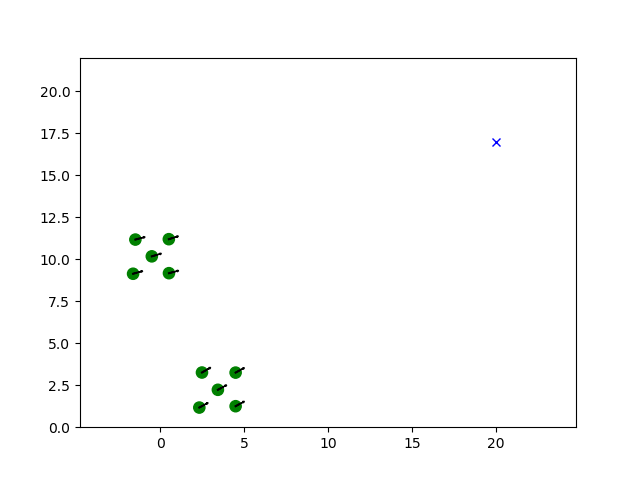
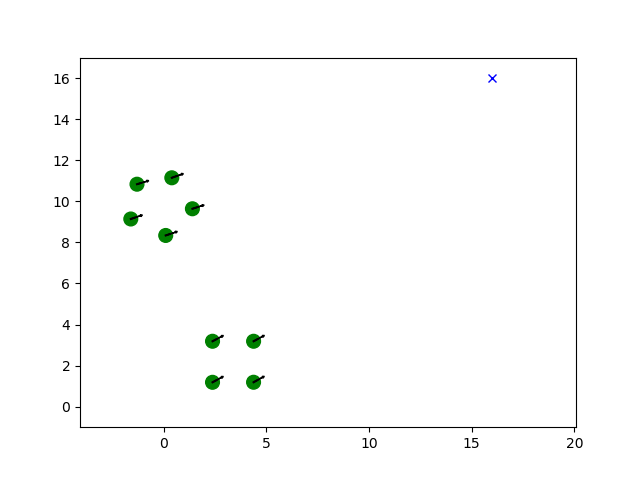
modified after presentation

diff --git a/experiment.tex b/experiment.tex
@@ -1,17 +1,17 @@
 \chapter{Experiments and Results}
-In this section, computer simulation results are presented in a two-dimensional space. The scoring system for formation coordination is validated in Section 4.1. The path planning algorithm is tested via three scenarios in Section 4.2, where the first shows how the team avoids obstacles by spitting and merging, the second shows how the team compress the formation to pass through a narrow area, and the last validates how the team find a solution when encountering a blind alley. The parameters used in our simulation is shown as the below table:
+In this section, computer simulation results are presented in a two-dimensional space. The scoring system for formation coordination is validated in Section 4.1. The path planning algorithm is tested via three scenarios in Section 4.2, where the first one shows how the team avoids obstacles by spitting and merging, the second one shows how the team compresses the formation to pass through a narrow passage, and the last one validates how the team finds a solution when encountering a blocked corner. The parameters used in our simulation are shown in Table \ref{table:parameter}:
 
 
 \begin{center}
 \captionof{table}{Simulation parameters}
-\label{table:combination}
+\label{table:parameter}
 \scalebox{0.9}{ %表格縮放
 \begin{tabular}{ll} 
     \Xhline{1.3pt}
     \textbf{parameter} & \textbf{value} \\ 
     \Xhline{1.3pt}
         UAV radius ($r$) & 0.4 $m$\\
-        safe distance ($d_{safe}$) & 0.6 $m$\\
+        safe distance ($d_{safe}$) & 0.8 $m$\\
         minimum velocity ($v_{min}$) & 0 $m/s$\\
         maximum velocity ($v_{max}$) & 15 $m/s$\\
         maximum acceleration ($a_{max}$) & 0.3 $m/s^{2}$\\
@@ -28,9 +28,7 @@ In this section, computer simulation results are presented in a two-dimensional 
 
 \section{Validation of The Scoring System}
 
-To fully verify the formation coordination's performance, we use an obstacle-free environment to observe how the UAVs move based on the scoring system. In Figure 4.1, 10 random-positioned UAVs is seen in the bottom-left corner, each of which has a sensing radius $d_{r}$ of 5 meters. After taking off (subgraph a), UAVs instantly detect the neighbors within $d_{r}$ and plan the best trajectories considered the minimum cost in the scoring system. At $t= 5 sec$ (subgraph b), UAVs move closer among neighbors to form compactly. At $t= 10 sec$, final formation is reconfigured (subgraph c). 
-Moreover, the final formation differs each time during multiple simulations since our goal is to safely and flexibly show the UAV's behavior. Furthermore, the algorithm shows scalability with the number of UAVs in the above two simulations. Because $N$ does not affect the visual scope, each UAV only has to consider the neighbors as its reference. 
-
+To fully verify the formation coordination's performance, we use an obstacle-free environment to observe how the UAVs move based on the scoring system. In Figure \ref{reconfiguring}, 9 random-positioned UAVs are seen in the bottom-left corner, each of which has a sensing radius $d_{r}$ of 5 meters. After taking off, as in Figure \ref{reconfiguring_a}, UAVs instantly detect the neighbors within $d_{r}$ and plan the best trajectories considered the minimum cost in the scoring system. At $t= 5 sec$ , as in Figure \ref{reconfiguring_b}, UAVs move closer among neighbors to form compactly. At $t= 10 sec$, the final formation is reconfigured as in Figure \ref{reconfiguring_c}. Moreover, the final formation differs each time during multiple simulations since our goal is to safely and flexibly show the UAV's behavior. The algorithm shows scalability with the number of UAVs in the simulation. Because $N$ does not affect the visual scope, each UAV only has to consider the neighbors as its reference. 
 
 \begin{figure}[htbp]
      \centering
@@ -38,28 +36,28 @@ Moreover, the final formation differs each time during multiple simulations sinc
          \centering
          \includegraphics[width=\textwidth]{figures/reconfigure_1.png}
          \caption{random positioned UAV}
-         \label{before merging}
+         \label{reconfiguring_a}
      \end{subfigure}
      \hfill
      \begin{subfigure}[b]{0.3\textwidth}
          \centering
          \includegraphics[width=\textwidth]{figures/reconfigure_2.png}
          \caption{formation coordination}
-         \label{ew}
+         \label{reconfiguring_b}
      \end{subfigure}
      \hfill
      \begin{subfigure}[b]{0.3\textwidth}
          \centering
          \includegraphics[width=\textwidth]{figures/reconfigure_3.png}
          \caption{final formation}
-         \label{qw}
+         \label{reconfiguring_c}
      \end{subfigure}
         \caption{Reconfiguring a compact formation}
-        \label{fig}
+        \label{reconfiguring}
 \end{figure}
 
 
-In the second simulation (Figure 4.2), we separate 10 UAVs into two groups and observe the behavior between them while flying toward the same goal point. At the beginning (subgraph a), two groups of 5 UAVs are positioned separately. At $t=5$, several UAV's sensors in both groups detect the position of the other group, which increase the number of neighbors. Therefore, the two groups merge into a team and form a new formation at $t=15$. 
+In the second simulation shown in Figure \ref{fig:merging}, we separate 9 UAVs into two groups and observe the behavior between them while flying toward the same goal point. At the beginning. as in Figure \ref{fig:merging_a}, two groups are initially positioned at separate locations. At $t=5$, as in Figure \ref{fig:merging_b}, several UAV's sensors in both groups detect the positions of UAVs in the other group, which they increase the number of neighbors. Therefore, the two groups merge to form a new formation into a large team at $t=17$, as in Figure \ref{fig:merging_c} . 
 
 \begin{figure}[htbp] 
      \centering
@@ -67,63 +65,84 @@ In the second simulation (Figure 4.2), we separate 10 UAVs into two groups and o
          \centering
          \includegraphics[width=\textwidth]{figures/merge_1.png}
          \caption{before merging}
-         \label{fig:y equals x}
+         \label{fig:merging_a}
      \end{subfigure}
      \hfill
      \begin{subfigure}[b]{0.3\textwidth}
          \centering
          \includegraphics[width=\textwidth]{figures/merge_2.png}
          \caption{formation coordination}
-         \label{fig:three sin x}
+         \label{fig:merging_b}
      \end{subfigure}
      \hfill
      \begin{subfigure}[b]{0.3\textwidth}
          \centering
          \includegraphics[width=\textwidth]{figures/merge_3.png}
          \caption{after merging}
-         \label{fig:five over x}
+         \label{fig:merging_c}
      \end{subfigure}
         \caption{Formation merging of two groups}
-        \label{fig:three graphs}
+        \label{fig:merging}
+\end{figure}
+
+We quantify the above two formation results in the line graph as \ref{fig:comparison}. We evaluate the compact formation performance by calculating the average distance among all UAVs in each time slice, and the distance between every 2 UAVs are calculated from the center of circle regardless of robot size and safe distance. That is, the shorter the average distance, the more compactly our formation performs. We than simulate a leader-follower based approach where 9 UAVs are set in a 3x3 square formation as our optimal baseline. It can be seen in the graph that the two simulations end up converging to a formation with an average distance around 2.4 to 2.5 (m), and the leader-follower approach maintains its average distance at around 2.2 (m).
+
+\begin{figure}[H]
+    \centering
+    \includegraphics[scale=1]{figures/average_distance_comparison.png}
+    \caption{Compactness comparison}
+    \label{fig:comparison}
 \end{figure}
 
 \section{Validation of Comprehensive Performance}
 \subsection{Obstacle avoidance}
 We set up an environment with multiple obstacles dispersed randomly with a radius from 0.2 (m) to 1.5 (m) in the flight space. The goal point is set at (24, 24), and a formation flight for a team is considered to start from the left-down corner. The team consists of six UAVs, which the initial positions are set to (1, 5), (3, 5), (5, 5), (3, 3), (5, 3), (5, 1) respectively, and their predefined trajectories are straight lines toward the goal point.
 
-The result is shown in Figure 4.2, where colored-dashed lines denote the trajectories corresponding to each UAV. The group separates in the beginning to avoid the small obstacle placed in (9, 9), and they then merge into a group after passing it. Before reaching the goal point, the split again to dodge the bigger obstacle successfully.
+The result is shown in Figure \ref{fig:trajectory}, where colored-dashed lines denote the trajectories corresponding to each UAV. The group separates in the beginning to avoid the small obstacle placed in (9, 9), and they then merge into a group after passing it. Before reaching the goal point, the split again to dodge a bigger obstacle successfully.
 
 \begin{figure}[H]
     \centering
     \includegraphics[scale=0.7]{figures/exp1-3.png}
     \caption{Overall trajectories for obstacles avoidance}
-    \label{fig:fig_label}
+    \label{fig:trajectory}
 \end{figure}
 
-\subsection{Passing through a narrow area}
-To test the capability of formation compression, we set up a narrow area for the UAV team to pass through. In the simulation, UAVs should switch the state $flying$ to state $waiting$ before passing through the narrow trail. The result is shown in Figure 4.3, where a team of 8 UAVs start from the left and the goal point is set on the right. In Figure 4.4, we use the color for UAVs to identify the states while passing through the trail, where the green UAVs represent the ones in a $flying$ state and the black ones are for the $waiting$ state. It is evident that both sides of the UAV predict the inter-vehicle may occur before entering, and therefore they wait for the former teammates.
+\subsection{Passing through a narrow passage}
+To test the capability of formation compression, we set up a narrow passage for the UAV team to pass through. In the simulation, UAVs should switch the state $flying$ to state $waiting$ before passing through the narrow passage. The result is shown in Figure \ref{fig:narrow}, where a team of 8 UAVs start from the left and the goal point is set on the right. In Figure \ref{fig:narrow}, we use the color for UAVs to identify the states while passing through the passage, where the green UAVs represent the ones in a $flying$ state and the black ones are for the $waiting$ state. It is evident that both sides of the UAVs predict the inter-vehicle collision may occur before entering, and therefore they wait for the other teammates to pass first.
 
 \begin{figure}[H]
     \centering
     \includegraphics[scale=1]{figures/trail_overall.png}
-    \caption{Overall trajectories in a narrow trail}
-    \label{fig:fig_label}
+    \caption{Overall trajectories in a narrow passage}
+    \label{fig:narrow}
 \end{figure}
 \begin{figure}[H]
     \centering
     \includegraphics[scale=1]{figures/trail_enter.png}
-    \caption{waiting state validation}
-    \label{fig:fig_label}
+    \caption{Waiting state validation}
+    \label{fig:wait}
 \end{figure}
 
 \subsection{Maze-like environment}
-More complex obstacles are placed on testing comprehensive functionality. Due to the limited sensor, UAVs cannot predict the obstacles that might block the direction in advance. Our algorithm requires neither leader nor fixed formation so that the team can easily fly in the opposite direction, and find another solution. 
+More complex obstacles are placed on testing comprehensive functionality. Due to the limited sensor, UAVs cannot predict the obstacles that might block the direction far away in advance. Our algorithm requires neither leader nor fixed formation so that the team can easily fly in the opposite direction, and find another solution.
 
-Figure 4.5 shows that the 6 UAVs are blocked in the beginning after they move for a short distance. Nevertheless, the pioneers invoke the state $searching$ when there is no available path. On the other hand, the UAVs behind switch the state $flying$ to $waiting$ and wait for their teammates. To prevent deadlock, We preset the constant $clock$ to 2 seconds. That is, every UAV will start to navigate new paths after the time-out. Finally, it can be seen that the team successfully find another route and fly toward the goal point.
+Figure \ref{fig:maze} shows that the 6 UAVs are blocked in the beginning after they move for a short distance. Nevertheless, the pioneers invoke the state $searching$ when there is no available path. On the other hand, the UAVs behind switch the state $flying$ to $waiting$ and wait for their teammates. To prevent deadlock, we preset a time-out variable $clock$. $clock$ is randomly assigned from 2 to 3 seconds for dealing with the synchronize problem. That is, every UAV will start to navigate new paths after the time-out. Finally, it can be seen that the team successfully find another route and fly toward the goal point.
+
+Figure \ref{fig:analysis} shows the analysis of UAV's performance in Figure \ref{fig:maze} from $N = 1$ to $15$, where $N=1$ represents a single UAV which does not require formation coordination. The green line denotes the UAV's average distance, and the red line denotes the total spent time. Since we define $v_{max} = 1m/s$ in the simulation, the
+average waiting time when UAVs are being stuck can be analyzed from the difference between both lines. It can be seen that the average distance does not largely affect by the number of UAVs, which shows the stability of our formation coordination algorithm. On the other hand, the total time spent depends on $N$ due to the obstacle that blocks the direction. In the area where UAVs try to find a way out, each UAV switch the state between $waiting$ and $searching$ to prevent a deadlock, In conclusion, it is similar to a stack(i.e., last-in-first-out structure), and the total time is a linear growth depends on $N$.
+
 
 \begin{figure}[H]
     \centering
     \includegraphics[scale=1]{figures/comprehensive_simulation_2.png}
-    \caption{\label{tab:table-name} UAVs fly in a maze-like environment}
-    \label{fig:fig_label}
+    \caption{Overall trajectories in a maze-like environment}
+    \label{fig:maze}
 \end{figure}
+
+\begin{figure}[H]
+    \centering
+    \includegraphics[scale=0.3]{figures/analysis.png}
+    \caption{Line chart of the average distance and the total time spent}
+    \label{fig:analysis}
+\end{figure}
+

diff --git a/introduction.tex b/introduction.tex
@@ -1,23 +1,25 @@
 \chapter{Introduction}
 
-
 There are many Unmanned Aerial Vehicle (UAV) applications in military use such as rescue, combat, exploration, surveillance, reconnaissance, etc. In such tasks, UAVs are often required to navigate in a team (i.e., swarm). The significant advantages that multiple vehicles provide over a single one include sharing information, reducing cost, multi-functional cooperation, as well as configuring formation.
 
-The purpose of constructing a formation in a team is to maintain the relative position of a set of vehicles so that we can prevent an inter-vehicle collision on a battlefield or maximize the group sensing area in military surveillance. In recent years, the communication network in multiple vehicle control strategies can be seen as two main categories: centralized and distributed approach. The former requires a leader or a central system to collect global information before planning a formation, while the latter allows each UAV to make its own decision based on local information. In general, the centralized approach provides a relatively more intuitive and easier way to implement in real-world scenarios, but it could become unstable when the central system of the team breaks down. For example, if a leader UAV is attacked and hurt by enemies, the communication between its followers and itself can be blocked, and the team may need to select another leader promptly to maintain its formation and mission operations.
+The purpose of constructing a formation in a team is to maintain the relative position of a set of vehicles so that we can prevent an inter-vehicle collision on a battlefield or maximize the group sensing area in military surveillance. In recent years, the communication network in multiple vehicle control strategies can be seen as two main categories: centralized and distributed approach. The former requires a leader or a central system to collect global information before planning a formation, while the latter allows each UAV to make its own decision based on local information. In general, the centralized approach provides a relatively more intuitive and easier way to implement in real-world scenarios, but it could become unstable when the central system breaks down. For example, if a UAV leader is attacked and hurt by enemies, the communication between its followers and itself can be blocked, and the team may need to promptly select another leader to maintain its formation and mission operations.
 
-On the other hand, despite the distributed multi-UAV approach is more stable and robust in task operations under hostile environment, a few common problems are challenging. Firstly, a consensus protocol among UAVs for internal communication is required since the path planning algorithm is conducted by each UAV dynamically and separately. Secondly, the configuration formation of a group can be more difficult to control and maintain in complex situations such as an environment with potential moving threats, a high density of unknown obstacles, or a narrow passage to reach the goal. Lastly, in the battle, it is sometimes necessary to reconfigure the formation whenever a drone strike occurs or to merge several allies into a bigger team while conducting more complex millitary operations. 
+On the other hand, despite the distributed multi-UAV approach is more stable and robust in task operations under a hostile environment, a few common problems are challenging:
+A consensus protocol among UAVs for internal communication is required since the path planning algorithm is conducted by each UAV dynamically and separately.
+The configuration formation can be more difficult to control and maintain in complex situations such as an environment with potential moving threats, a high density of unknown obstacles, or a narrow passage to reach the goal.
+In the battle, it is sometimes necessary to reconfigure the formation whenever a drone strike occurs or merge several allies into a bigger team while conducting more complex military operations. 
 
-In order to minimize the computing cost and maximize the scalability for solving the above problems, we give up maintaining a specific configuration formation during the mission. Instead, we propose a more flexible configuration formation strategy (i.e., no fixed formations are negotiated beforehand) that requires only some notion of "compactness" of the configuration. In other word, our multi-UAV team aims to achieve the goals as follows:
+In order to minimize the computing cost and maximize the scalability for solving the above problems, we give up maintaining a specific configuration formation during the mission. Instead, we propose a more flexible configuration formation strategy (i.e., no fixed formations are negotiated beforehand) that requires only some notion of "compactness" of the configuration. In other words, our multi-UAV team aims at achieving the goals as follows:
 \begin{enumerate}
 \item Constructing a compact formation by consensus protocols among UAVs
 \item Planning a dynamic path in a complex environment
-\item Forming reconfiguration flexibly while team members change at certain situations
+\item Forming reconfiguration flexibly while team members change their behaviors at certain situations
 \end{enumerate}
 
-Similar to a flock of birds or a school of fish heading toward the destination \citep{hubbard2004model}, each UAV flies in a direction depending on others' directions or behaviors. However, they tend to move together as a whole to protect their companions, meanwhile avoiding crashing into each other without a specific formation in order to maintain the flexibility and certain degree of autonomy. In our problem domain, we define the flexible formation as a set of random-positioned UAVs that fly compactly as a team and keep their inter-safety distance. The reason we form a compact formation is that some localization tasks require multiple sensors with closer relative positions. For example, more agents can increase the accuracy of detecting obstacles from sensor noise and widen the cone of observation \citep{anderson2008uav}. In other words, the purpose is to form more UAVs in a specific range of area.
+Similar to a flock of birds or a school of fish heading toward the destination \citep{hubbard2004model}, each UAV flies in a direction depending on others' directions or behaviors. However, they tend to move together as a whole to protect their companions, meanwhile avoiding crashing into each other without a specific formation in order to maintain flexibility and a certain degree of autonomy. In our problem domain, we define the flexible formation as a set of random-positioned UAVs that fly compactly as a team and keep their inter-safety distance. The reason we form a compact formation is that some localization tasks require multiple sensors with closer relative positions. For example, more agents can increase the accuracy of detecting obstacles from sensor noise and widen the cone of observation \citep{anderson2008uav}. In other words, the purpose is to form more UAVs in a specific range of area.
 
-A scoring system is used to evaluate the cost of the paths predicted by each UAV, and it then selects the minimum-cost path as the final decision. There is a tradeoff in the scoring system that is the goal cost and the formation cost. The former prompts the cost for a UAV to fly toward the destination, and the latter motivates it to stay closer to other teammates. Besides, we let the balance weight between the goal cost and the formation cost depends on the sensing radius and the safety distance of each UAV. Namely, a UAV will find the compact formation more critical when its sensing area is smaller, thus enhancing the density of the UAV around the area.
+A scoring system is used to evaluate the cost of the paths predicted by each UAV, and it then selects the minimum-cost path as the final decision. A trade-off in the scoring system is the weight between the speed cost and the formation cost. The former accelerates the UAVs that far behind the team, and the latter motivates it to stay closer to other teammates. Besides, we let the balance weight between the speed cost and the formation cost depend on the distance of the nearest neighbor. Namely, a UAV will find the compact formation more critical when moving away from the team, thus enhancing the UAV density around the area.
 
-To deal with collision avoidance in different situations, we can switch the path planning algorithm among three states: flying, navigating, and waiting. Flying state is used in most scenarios, where a UAV can easily find a minimum cost among its predicted path. However, if every predicted path is blocked by obstacles, the UAV will automatically switch the algorithm to navigating state and clockwise rotate its direction in order to find another feasible path until the problem is solved. Finally, the waiting state is designed for resolving an possibility of inter-vehicle collision. While reconfiguring the formation before or after passing by obstacles, the selected path may collide with other teammates. In this case, the UAV should stop and plan its path in a busy-waiting status until the other teammates move ahead and the possibility of collision can be avoided.
+To deal with collision avoidance in different situations, we can switch the path planning algorithm among three states: flying, navigating, and waiting. Flying state is used in most scenarios, where a UAV can easily find a minimum cost among its predicted path. However, if obstacles block every predicted path, the UAV will automatically switch the algorithm to navigating state and clockwise rotate its direction to find another feasible path until the problem is solved. Finally, the waiting state is designed for resolving the possibility of inter-vehicle collision. While reconfiguring the formation before or after passing by obstacles, the selected path may collide with other teammates. In this case, the UAV should stop and plan its path in a busy-waiting status until the other teammates move ahead, and the possibility of collision can be avoided.
 
-The rest of the paper is organized as follows. In section 3.1, we use the dynamic windows approach \citep{580977} to dynamically plan paths for multiple UAVs under several constraints. In section 3.2, we introduce the scoring system for configuring a compact formation. In section 3.3, we summarize the distributed configuration formation control algorithm. Finally, the experimental results and future work are presented in section 4 and 5.
+The rest of the paper is organized as follows. In section 3.1, we use the dynamic windows approach \citep{580977} to plan paths for multiple UAVs under several constraints dynamically. In section 3.2, we introduce the scoring system for configuring a compact formation. In section 3.3, we summarize the distributed configuration formation control algorithm. Finally, the experimental results and future work are presented in section 4 and 5.

diff --git a/methodology.tex b/methodology.tex
@@ -23,6 +23,7 @@ for all $i\in$\{1, 2, ..., $N$\}, where $(x_{i}(t_{n})$, $y_{i}(t_{n}))$ is the 
 \begin{aligned}
 & 0\leq v_{i}(t)\leq v_{\max}\\
 & -\omega_{\max}\leq\omega_{i}(t)\leq\omega_{\max}
+\label{eqn:bound}
 \end{aligned}
 \end{equation}
 
@@ -35,7 +36,7 @@ On a battlefield of high uncertainty, We use the dynamic windows approach for ea
 \end{aligned}
 \end{equation}
 
-The above predicted possible trajectories is depended on the inputs ${v}$ and ${\omega}$ controlled by time windows, and the range of ${v}$ and ${\omega}$ can be adjusted more tightly from equation 3.3 as follows:
+The above predicted possible trajectories is depended on the inputs ${v}$ and ${\omega}$ controlled by time windows, and the range of ${v}$ and ${\omega}$ can be adjusted more tightly from equation \ref{eqn:bound} as follows:
 
 \begin{equation}
 \begin{aligned}
@@ -95,14 +96,14 @@ Lastly, the value of the formation cost function is shown as:
 
 
 \section{Distributed Path Planning Algorithm}
-Our proposed algorithm is illustrated in Algorithm 1. Firstly, each UAV predicts trajectories base on the time window, rejecting the ones which may collide into obstacles or teammates. In this step, we can assure that obstacles and inter-vehicle collision will not occur at any time. However, we should identify the difference between the two circumstances by using a flag, which may affect the UAV's behavior at the final of the algorithm. Secondly, the UAV finds the minimum-cost trajectory by using the scoring system. Lastly, UAV decides its behavior among the three states: flying, waiting, and searching.
+Our proposed algorithm is illustrated in Algorithm \ref{alg:tra_planning}. Firstly, each UAV predicts trajectories base on the time window, rejecting the ones which may collide into obstacles or teammates. In this step, we can assure that obstacles and inter-vehicle collision will not occur at any time. However, we should identify the difference between the two circumstances by using a flag, which may affect the UAV's behavior at the final of the algorithm. Secondly, the UAV finds the minimum-cost trajectory by using the scoring system. Lastly, UAV decides its behavior among the three states: flying, waiting, and navigating.
 
 \begin{algorithm}[htbp] 
-\caption{trajectory planning}
+\caption{\label{alg:tra_planning}trajectory planning}
 \begin{algorithmic}[1]
-\State $cost_{min}$ = $\infty$
-\State$traj*$ = [ ]
+\State $cost_{min}$ = $\infty$, $traj*$ = [ ]
 \State $interCollision$ = $false$
+\State Calculate dynamic windows
 \For{$v$ in time window}  
     \For{$\omega$ in time window}
         \State predict a possible trajectory $traj$
@@ -126,41 +127,58 @@ Our proposed algorithm is illustrated in Algorithm 1. Firstly, each UAV predicts
         \State \Return $state$ = $waiting$
     \EndIf
 \EndIf
-\State \Return $state$ = $searching$
+\State \Return $state$ = $navigating$
+
 \end{algorithmic}
 \end{algorithm}
 
-\begin{tikzpicture}
-\node[shape=circle, align=center, draw=black, minimum size=2cm] (wa) at (-3.5, 0) {waiting};
-\node[shape=circle, align=center, draw=black, minimum size=2cm] (fl) at (0,5) {flying};
-\node[shape=circle, align=center, draw=black, minimum size=2cm] (se) at (3.5, 0) {searching};
+\begin{figure}[H]
+    \centering
+    \includegraphics[scale=1]{figures/states.png}
+    \caption{The relationship between each states}
+    \label{fig:states}
+\end{figure}
 
-\path[thick,->] (fl) edge node[left] {inter-vehicle collision} (wa);
-\path[thick,->] (fl) edge node[right] {obstacle collision} (se);
-\path[thick,->] (wa) edge node[below] {time-out} (se);
-
-\end{tikzpicture}
-
-Most of the time, the state Flying is kept.
-Once the set of trajectory nodes are calculated and returned from the algorithm, the UAV follows the nodes and simultaneously predicted a new trajectory. The loop will be continued until another state is switched or the goal point is reached. When there are no available trajectories, and the value of the flag is also equal to True, it can be known that the path is blocked by its teammates instead of obstacles. In this case, the state will be automatically switched to Waiting, where UAVs are required to stop and re-plan the path. Waiting is often seen when avoiding obstacles and formation merging, significantly when the orientation changes quickly. Thus, the later UAVs should give in until the former UAVs pass. However, a deadlock may occur when most UAVs congest in an environment such as a blind alley. To solve such a problem, a time constant Clock is used to prevent a UAV wait overtime. If Clock
-exceeds Wait, the state Searching will be invoked.
+Most of the time, UAVs maintain the state $flying$. Once the set of trajectory nodes are calculated and returned from the algorithm, the UAV follows the nodes and simultaneously predicted a new trajectory. The loop will be continued until another state is switched or the goal point is reached. If all of the predicted trajectories are blocked by the teammates, the state will be automatically switched to $waiting$. State $waiting$ refers to a UAV should stop and re-plan another path, and it is often seen when avoiding obstacles or formation merging, significantly when the orientation changes quickly. Thus, the later UAVs should give up the paths until the former UAVs pass. However, a deadlock may occur when most UAVs congest in an environment such as a blind alley. To solve such a problem, we set a constant $clock$ to prevent a UAV from waiting for overtime. If $clock$ exceeds the waiting time, the state $navigating$ will also be invoked.
 \[
     waiting()= 
 \begin{cases}
-    \text{stop and re-plan},& \text{if } clock<t_{wait}\\
-    \text{switch to } searching, & \text{otherwise}
+    \text{stop},& \text{if } clock<t_{wait}\\
+    \text{switch to } navigating, & \text{otherwise}
 \end{cases}
 \]
 
-$searching$ is also be used when a UAV has no trajectories found due to the obstacle collision. The UAV stops and rotates its orientation to plan other possible trajectories. In this paper, the orientation is clockwise rotated with a predefined angular velocity $\omega_{search}$. The equation is shown as follows:
+The UAV stops and rotates its orientation to plan other possible trajectories in state $navigating$. The state $navigating$ is also used in other cases such as multiple or irregular-shaped obstacles. In this paper, we clockwise rotate the orientation with a predefined angular velocity $\omega_{nav}$, the calculation is as follows:
 
 \begin{equation}
 \begin{aligned}
-& \theta_{i}(t) = \theta_{i}(t_{0}) + t \cdot \omega_{search}
+& v_{i} = 0 \\
+& \theta_{i}(t) = \theta_{i}(t_{0}) + t \cdot \omega_{nav}
 \end{aligned}
 \end{equation}
 
+However, the group might end up converging in a straight-line formation after avoiding obstacles in a few certain circumstance, because the collinear of ($x_{i}, y_{i}$), $PG_{i}$ ,and the $End$ causes a fixed orientation for each UAV. To solve the convergence problem, if an UAV's neighbors only appear at the front and the back during the state $flying$ (figure \ref{fig:convergence}), an orientation changing function, as in equation \ref{eqn:convergence}, will allow it to randomly turn left or right for an orientation $\omega_{turn}$ . Once one or more UAVs move to different positions, the formation will be reconfigured.
+
+\begin{figure}[H]
+    \centering
+    \includegraphics[scale=0.8]{figures/line-convergence.png}
+    \caption{straight-line formation convergence problem}
+    \label{fig:convergence}
+\end{figure}
+
+\begin{equation}
+\begin{aligned}
+& \theta_{i} := \theta_{i} \pm \omega_{turn}, &\mbox{if} \mbox{ }  N_{i} \in front \land back
+\label{eqn:convergence}
+\end{aligned}
+\end{equation}
+
+
+
+
 In our proposed algorithm, the overall time complexity depends on the time window [$t_{0}$, $t_{T}$]. The big-O notation can be denoted as $O((t_{T})^2)$ due to the changes by $v$ and $\omega$. More specifically, other variables such as velocity acceleration $a$, angular acceleration $\Delta\omega$, and the resolution used in the for-loop in the algorithm also affect the time performance.
+
+
 
 
 

diff --git a/relatedwork.tex b/relatedwork.tex
@@ -1,13 +1,13 @@
 \chapter{Related Work}
 
-Preventing inter-vehicle crashing and obstacle collision is the most critical issue when it comes to formation coordination \citep{580977}. In the previous papers, the main approaches can be seen as three categories: behavioral structure, leader-follower, and virtual structure, each of which has its advantages and disadvantages.
+Preventing inter-vehicle crashing and obstacle collision is the most critical issue when forming coordination \citep{580977}. In the previous papers, the main approaches can be seen as three categories: behavioral structure, leader-follower, and virtual structure, each of which has its advantages and disadvantages.
 
-Behavior-based structure \citep{balch1998behavior}, \citep{1261347}, which aims at designing different behaviors for robots such as avoiding static obstacles, avoiding robots, moving to goal, and maintaining formation. The predetermined formations can also be switched by using graphical theory. The merit of the structure is that it requires less communication with other robots due to decentralization. However, it is unlikely to deal with problems in a more complex environment and hard to prove whether the weight of each behavior is optimal computationally. Therefore, more machine learning researches have targeted this issue \citep{bithas2019survey}.
+Behavior-based structure \citep{balch1998behavior}, \citep{1261347}, which aims to design different behaviors for robots such as avoiding static obstacles, avoiding robots, moving to goal, and maintaining formation. The predetermined formations can also be switched by using graphical theory. The merit of the structure is that it requires less communication with other robots due to decentralization. However, it is unlikely to deal with problems in a more complex environment and hard to prove whether the weight of each behavior is optimal computationally. Therefore, more machine learning researches have targeted this issue \citep{bithas2019survey}.
 
-\citet{tanner2004leader}, \citet{fredslund2002general}, \citet{luo2013uav} proposed leader-follower approaches to deal with UAVs that have limited sensing scope. Each UAV, excluding the leader, selects a neighbor to follow by a predetermined protocol. The graph of the neighbor relationship can be seen as a spanning tree, where each UAV can maintain a related position to its neighbor. Thus, it is not required to sense the position of every other UAV, but the formation shape is limited due to the leader-follower structure among neighbors. 
+\citet{tanner2004leader}, \citet{fredslund2002general}, \citet{luo2013uav} proposed leader-follower approaches to deal with UAVs that have limited sensing scope. Each UAV, excluding the leader, selects a neighbor to follow by a predetermined protocol. The graph of the neighbor relationship can be seen as a spanning tree, where each UAV can maintain a related position to its neighbor. Thus, it is not required to sense every other UAV's position, but the formation shape is limited due to the leader-follower structure among neighbors. 
 
 In the virtual structure, all the UAVs have a geometric relationship based on a virtual point or virtual leader formations \citep{beard2001coordination}. Compare to the leader-follower approach, a virtual leader structure is proposed to improve its robustness since every UAV will not directly affect others' direction, but one obvious disadvantage is that reconfigure the formation is more challenging. \citet{6451251} propose a decentralized scheme based on both behavior and virtual leader structure to control the formation and avoid obstacles, respectively.
 
-To solve the above problems of the three structures, the research about consensus theory has emerged as a challenging topic in recent years. \citet{ren2007consensus} has proved that behavior-based, leader-follower, and virtual structure can be regarded as special cases of consensus theory. Therefore, many papers combined different formation control structures by designing consensus protocols. \citet{7419717} use consensus variables calculated among a UAV and its neighbors to stabilize the formation. \citet{8295262} propose a multiple-leaders scheme, where all leaders should reach a consensus before configuring a formation. The followers then converge to the convex hull formed by those of leaders. However, the two methods are not able to deal with problems such as formation splitting and merging. Thus, \citet{7487747}, \citet{8793765} proposed a decentralized base formation control in dynamic environment. With different predetermined formation, the team can reach a consensus when encountering obstacles or a narrow trail. Formation splitting or merging are also decided by a consensus protocol.
+To solve the above problems of the three structures, the research about consensus theory has emerged as a challenging topic in recent years. \citet{ren2007consensus} has proved that behavior-based, leader-follower, and virtual structure can be regarded as special cases of consensus theory. Therefore, many papers combined different formation control structures by designing consensus protocols. \citet{7419717} use consensus variables calculated among a UAV and its neighbors to stabilize the formation. \citet{8295262} propose a multiple-leaders scheme, where all leaders should reach a consensus before configuring a formation, and the followers then converge to the convex hull formed by those of leaders. However, the two methods are not able to deal with problems such as formation splitting and merging. Thus, \citet{7487747}, \citet{8793765} proposed a decentralized base formation control in dynamic environment. With different predetermined formation, the team can reach a consensus when encountering obstacles or a narrow trail. A consensus protocol also decides formation splitting or merging. \citet{5069925} propose a virtual leader approach, which only requires local knowledge given by a UAV's neighbors. Each UAV only needs to maintain the relative position to keep the formation.
 
-Although many researchers have investigated the formation control problems, few works focus on reconfiguration issue or a relatively more complex environment of high uncertainty. Therefore, the scheme we propose focuses on configuring a compact but unfixed formation. Each UAV can avoid obstacles and inter-vehicle collision as the priority and maintain distance among each teammate. Our work is also inspired by \citep{5069925}.
+Although many researchers have investigated the formation control problems, few works focus on reconfiguration issue or a relatively more complex environment of high uncertainty. Based on \citep{5069925}, we propose a virtual center of gravity as a virtual leader that we can flexibly adjust the positions for every UAV. Therefore, our work allows UAV teams to avoid obstacles and inter-vehicle collision as the priority and maintain distance among teammates.

diff --git a/conclusion.tex b/conclusion.tex
@@ -1,4 +1,10 @@
 \chapter{Conclusion and Future Work}
-\section{Conclusion}
-\section{Future Work}
+
+In this paper we have considered the problem of UAVs flying in several potential unknown environments such as multiple obstacles and traffic congestion, where they should autonomous and distributively coordinate their formation in order to carry out the mission. For this particular problem we have proposed a dynamic path planning algorithm based on a look ahead scoring system to prompt UAVs to form compactly. We have demonstrated via simulations that the above problem is successfully solved by the proposed scheme. 
+
+In our distributed structure, the best trajectory is based on a virtual leader that calculated from the geometric center of gravity, which only requires its neighbor's positions. Our current experiments assume only a single common goal is to be carried out, however, many more complicated applications may require multiple goals or tasks to be accomplished by the UAVs. Therefore, our further work includes getting feedbacks from neighbors for each UAV after making a decision and designing other communication protocols that can improve its behaviors by negotiating their roles in carrying out multi-goals or tasks. This work have founded the basis of flexible path planning to be extended to more complicated tasks to be carried out by a swarm of UAVs.
+
+
+
+
 

diff --git a/abstract.tex b/abstract.tex
@@ -1,4 +1,4 @@
 \prefacesection{Abstract}
 %英文摘要
-(not finished)
+Formation coordination for distributed Unmanned Ariel Vehicle (UAV) has been a challenging topic. Without a leader that computes the formation for other teammates, each UAV needs to make its own decision to form the formation. However, in a battlefield environment, UAVs are required to react dynamically and immediately, and therefore less computing cost of formation planning is essential. Consequently, we propose a flexible formation coordination scheme for such a problem. Similar to a flock of birds or a school of fish, they move without a specific formation, maintaining the compactness of the relative position among each other without collision. Despite other teammates join the team or crush while flying, UAVs can still keep the formation and complete the mission. We have conducted experiments on the flexible split of the team into sub-teams in face with an obstacle, passing through a narrow passage as well as a maze-like environment. The UAVs with the proposed distributed formation path planning algorithms can accomplish the tasks satisfactorily and flexibly.
 \clearpage

diff --git a/chineseabstract.tex b/chineseabstract.tex
@@ -1,5 +1,5 @@
 \pagenumbering{roman}
 
 \prefacesection{摘要}
-%中文摘要
+分散式無人機群隊形協調是一個具有挑戰的研究方向。由於缺乏長機(隊長)規劃隊形及發布命令，各無人機需要靠自己的決策以控制隊形。然而無人機在軍事用途中，需要動態且即時應對戰場危險，此時較小的隊形規劃計算成本顯得非常重要。我們針對這問題提出一種彈性的隊形協調策略，使無人機群如同鳥和魚群，在行進過程沒有固定的隊形卻能保持緊湊的相對位置而不相撞。即使有隊友在飛行過程中加入或者在途中被擊落，無人機群仍然能在任何地圖中繼續保持隊形完成任務。
 \clearpage
